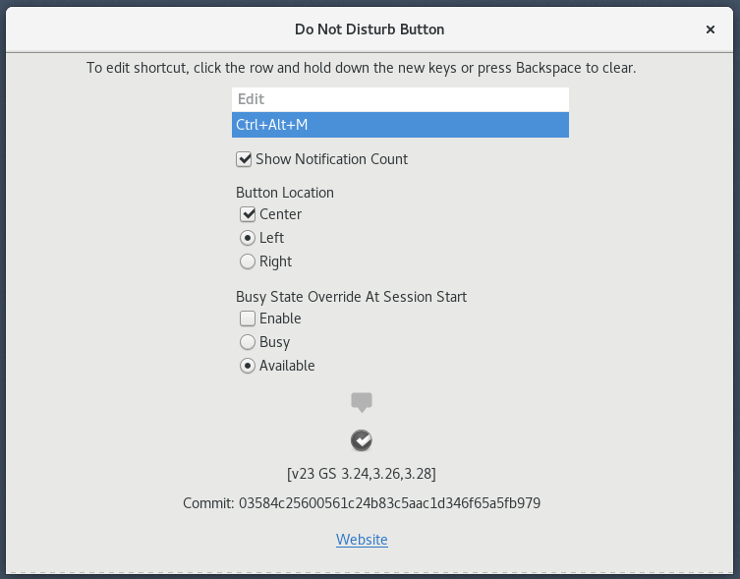
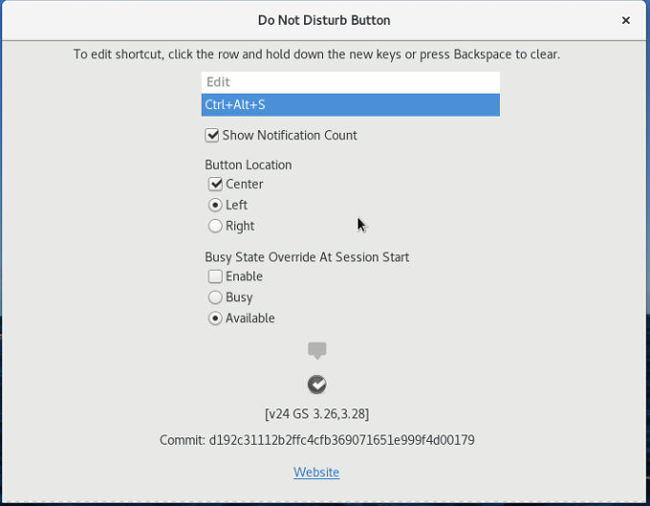
DND button updated

diff --git a/DNDlatestupdate.html b/DNDlatestupdate.html
@@ -19,14 +19,26 @@ Update or install the Do Not Disturb Button extension at the Gnome Shell Extensi
 Download the zip-file for the Do Not Disturb Button extension from the Gnome Shell Extension Website.
 </a>
 </h5>
-<h4>Latest Update Version 23 GS 3.24 3.26 3.28</h4>
-Corrected metadata.json to reflect GS 3.24 3.26 3.28.
+
+<h4>Latest Update Version 24 GS 3.26 3.28</h4>
 <p>
-<h4>Update Version 22 GS 3.20 3.22 3.24 3.26 3.28</h4>
-Added persistent busy-available state logic with selectable override at session start-up.  See README.txt 2018-04-19 entry for details.
-<p>
+Thanks to p-bo for adding Czech translation.<br><br>
+Added code to handle clutter.EventType.TOUCH_BEGIN to act the same as a mouse click of the extension's panel button.  This change is untested.  I do not have a device that generates touch events. <br>
+Updated code:<br>
+to use arrow notation => instead of Lang.bind for anonymous functions.<br>
+to use ES6 classes.<br>
+to use GJS ES6 class wrapper for GObject class in prefs.js.<br>
+to use Function.prototype.bind() instead of Lang.bind for named call backs.<br>
+These changes are provided to accommodate future requirements of the Gnome Shell.
 </p>
-<h4>Latest Update Version 21 GS 3.24 3.26 3.28</h4>
+
+<h4>Update Version 23 GS 3.24 3.26 3.28</h4>
+<p>Corrected metadata.json to reflect GS 3.24 3.26 3.28.
+</p>
+<h4>Update Version 22 GS 3.20 3.22 3.24 3.26 3.28</h4>
+<p>Added persistent busy-available state logic with selectable override at session start-up.  See README.txt 2018-04-19 entry for details.
+</p>
+<h4>Update Version 21 GS 3.24 3.26 3.28</h4>
 <p>Added GS version 3.28 to meta data.
 </p>
 <h4>Update Version 20 GS 3.16 3.18 3.20 3.22 3.24 3.26</h4>

diff --git a/DNDfeatures.html b/DNDfeatures.html
@@ -27,6 +27,9 @@ footer { font-family: Verdana, sans-serif; margin:5px; font-size:0.7em; backgrou
 <td align="center"><h5><center><a href="./DNDlatestupdate.html" target="Right">Latest Update</a></center></h5></td>
 </tr>
 </table>
+<table>
+<tr>
+	<td>
   		 <h4>Do Not Disturb Button Extension Features</h4>
        <ul>
         <li>A panel button is provided to toggle on or off the receipt of notifications.</li>
@@ -53,11 +56,14 @@ footer { font-family: Verdana, sans-serif; margin:5px; font-size:0.7em; backgrou
        <a href="http://lists.fedoraproject.org/pipermail/desktop/2015-June/012417.html" target="_blank">"Do Not Disturb Thread"</a><br>
        <a href="http://lists.fedoraproject.org/pipermail/desktop/2015-June/012527.html" target="_blank">"Do Not Disturb Thread Continued"</a><br>
        </p>
-       <p><b>Ubuntu Users:</b> Please note:<br>
+       <p>
         Ubuntu 17.10 introduced a modified version of Gnome  Shell to provide a 'Unity like experience'.
         The Do Not Disturb Button Extension has been modified to be compatible with the Ubuntu default Ubuntu Session as of extension version 19.
         </p>
-
+    </td>
+</tr>
+</table>
+<p>For Bugs, issues, comments please see <a href="./index.html" target="_top"><b>Bugs... etc.</b></a><br>
 <footer>
 		<br>
 		<center><a href="mailto:nls1729@gmail.com"><img src="images/mail-mark-unread-2.png" width="32" height="32" alt="">

diff --git a/content.html b/content.html
@@ -42,14 +42,14 @@ header {margin:5px; adding:8px;}
 		conflict I may or may not be able to provide a resolution.
 		</p>
 		<p>
-		If you have a Github account report any issues at <a href="https://github.com/nls1729/acme-code">nls1729/acme-code</a>.<br>
-		Contributions of translations via Pull Requests are very much appreciated.
+		If you have a Github repository please report any issues at <a href="https://github.com/nls1729/acme-code">nls1729/acme-code</a>.<br>
+		Contributions of translations via Pull Requests are very much appreciated.<br><br>
+		Please email me if you report a problem and do not get a response within seven days.</br>
 		</p>
 		<p>
 		If you have a question or comment, email me.<br>
 		</p>
-		<h4><img src="images/mail-mark-unread-2.png" width="32" height="32" alt=""></img>mailto:</h4>
-		<p>
+		<h4><a href="mailto:nls1729@gmail.com"><img src="images/mail-mark-unread-2.png" width="32" height="32" alt=""></img>mailto:</a></h4>
 		The html mailto links used in these pages expect the local email client to be executed with<br>
 		the addressee completed in the client as displayed in the mailto link. Firefox and Epiphany<br>
 		operate as expected.  Other browsers may not.  If you have problems using the mailto link,<br>

diff --git a/donotdisturb_button_zip.html b/donotdisturb_button_zip.html
@@ -22,7 +22,10 @@
 <p>With the <strong>secondary mouse button</strong>, click (v)ersion number in first column, then open link in a new tab or window to download.</p>
 <table>
 <tr><td><h3>Do Not Disturb Button</h3></td><td>&nbsp&nbsp&nbsp</td><td><h3>Gnome Shell Version(s)</h3></td></tr>
+<tr><td><a href="https://extensions.gnome.org/review/download/8318.shell-extension.zip">v24</a></td><td>&nbsp&nbsp&nbsp</td><td><strong>3.26 3.28</strong></td></tr>
+
 <tr><td><a href="https://extensions.gnome.org/review/download/8207.shell-extension.zip">v23</a></td><td>&nbsp&nbsp&nbsp</td><td><strong>3.24 3.26 3.28</strong></td></tr>
+
 <tr><td><a href="https://extensions.gnome.org/review/download/8074.shell-extension.zip">v22</a></td><td>&nbsp&nbsp&nbsp</td><td><strong>3.24 3.26 3.28</strong></td></tr>
 <tr><td><a href="https://extensions.gnome.org/review/download/8063.shell-extension.zip">v21</a></td><td>&nbsp&nbsp&nbsp</td><td><strong>3.24 3.26 3.28</strong></td></tr>
 <tr><td><a href="https://extensions.gnome.org/review/download/7742.shell-extension.zip">v20</a></td><td>&nbsp&nbsp&nbsp</td><td><strong>3.16 3.18 3.20 3.22 3.24 3.26</strong></td></tr>

diff --git a/donotdisturb_button.html b/donotdisturb_button.html
@@ -15,7 +15,7 @@
 <![endif]-->
 </head>
 <body>
-<iframe name="Left"  src="./DNDfeatures.html" style="float:left;  width:40%; height:98%"></iframe>
-<iframe name="Right" src="./DNDprefsimage.html"  style="float:right; width:60%; height:98%"></iframe>
+<iframe name="Left"  src="./DNDfeatures.html" style="float:left;  width:35%; height:98%"></iframe>
+<iframe name="Right" src="./DNDprefsimage.html"  style="float:right; width:65%; height:98%"></iframe>
 </body>
 </html>
